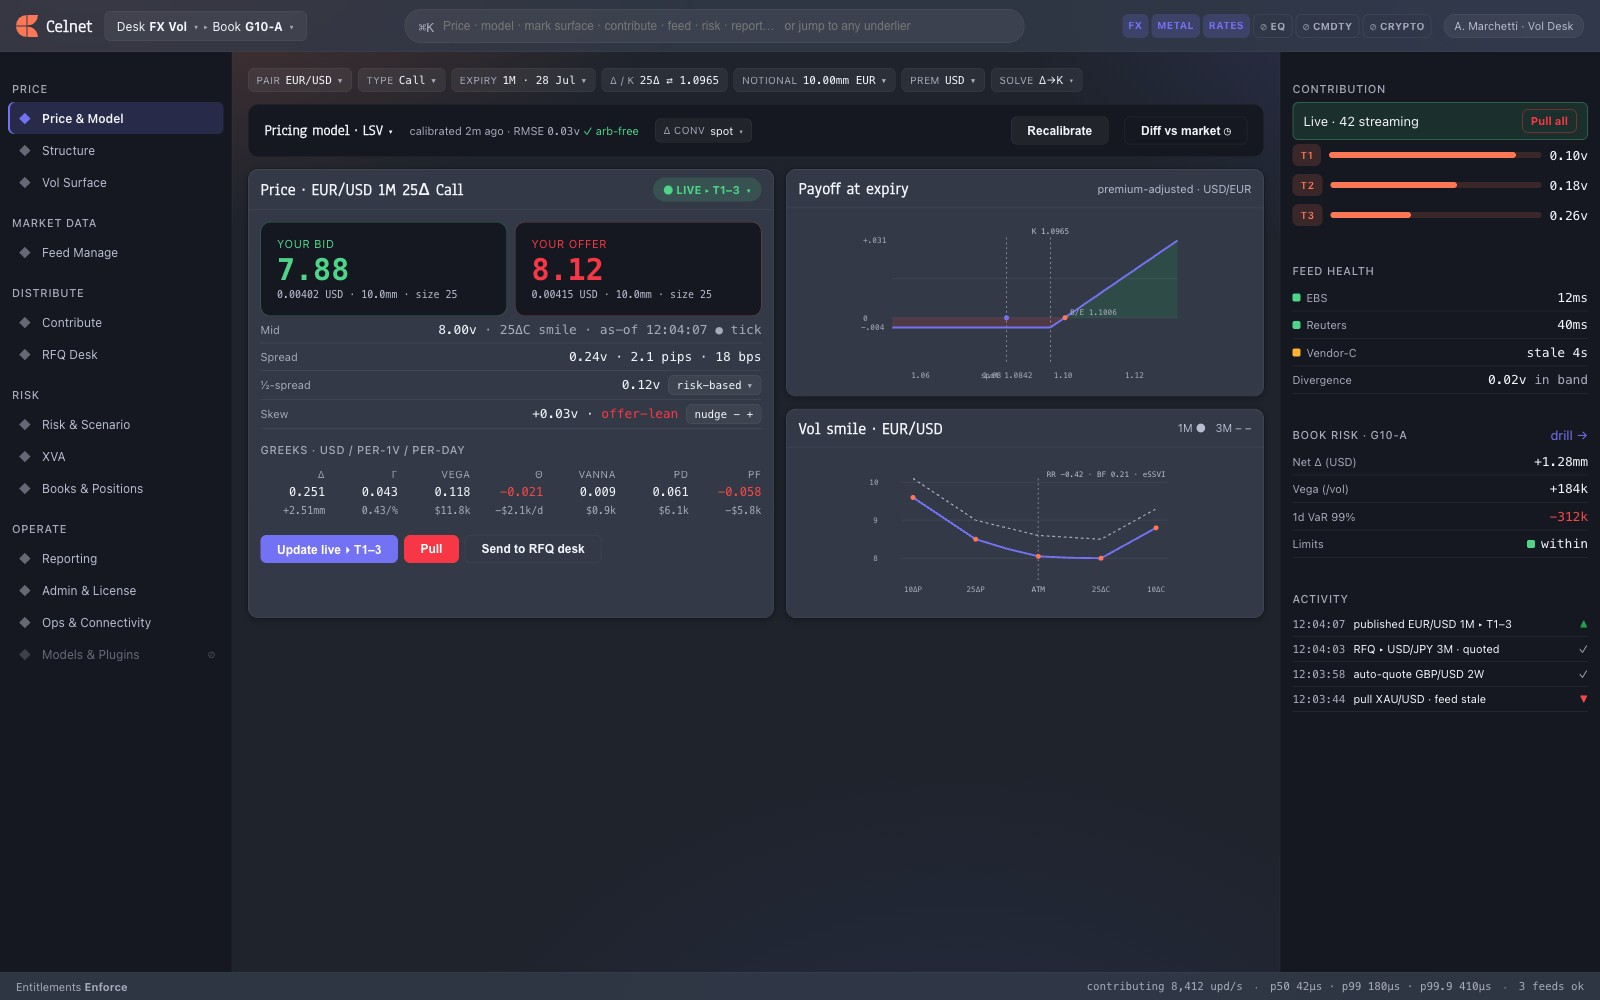
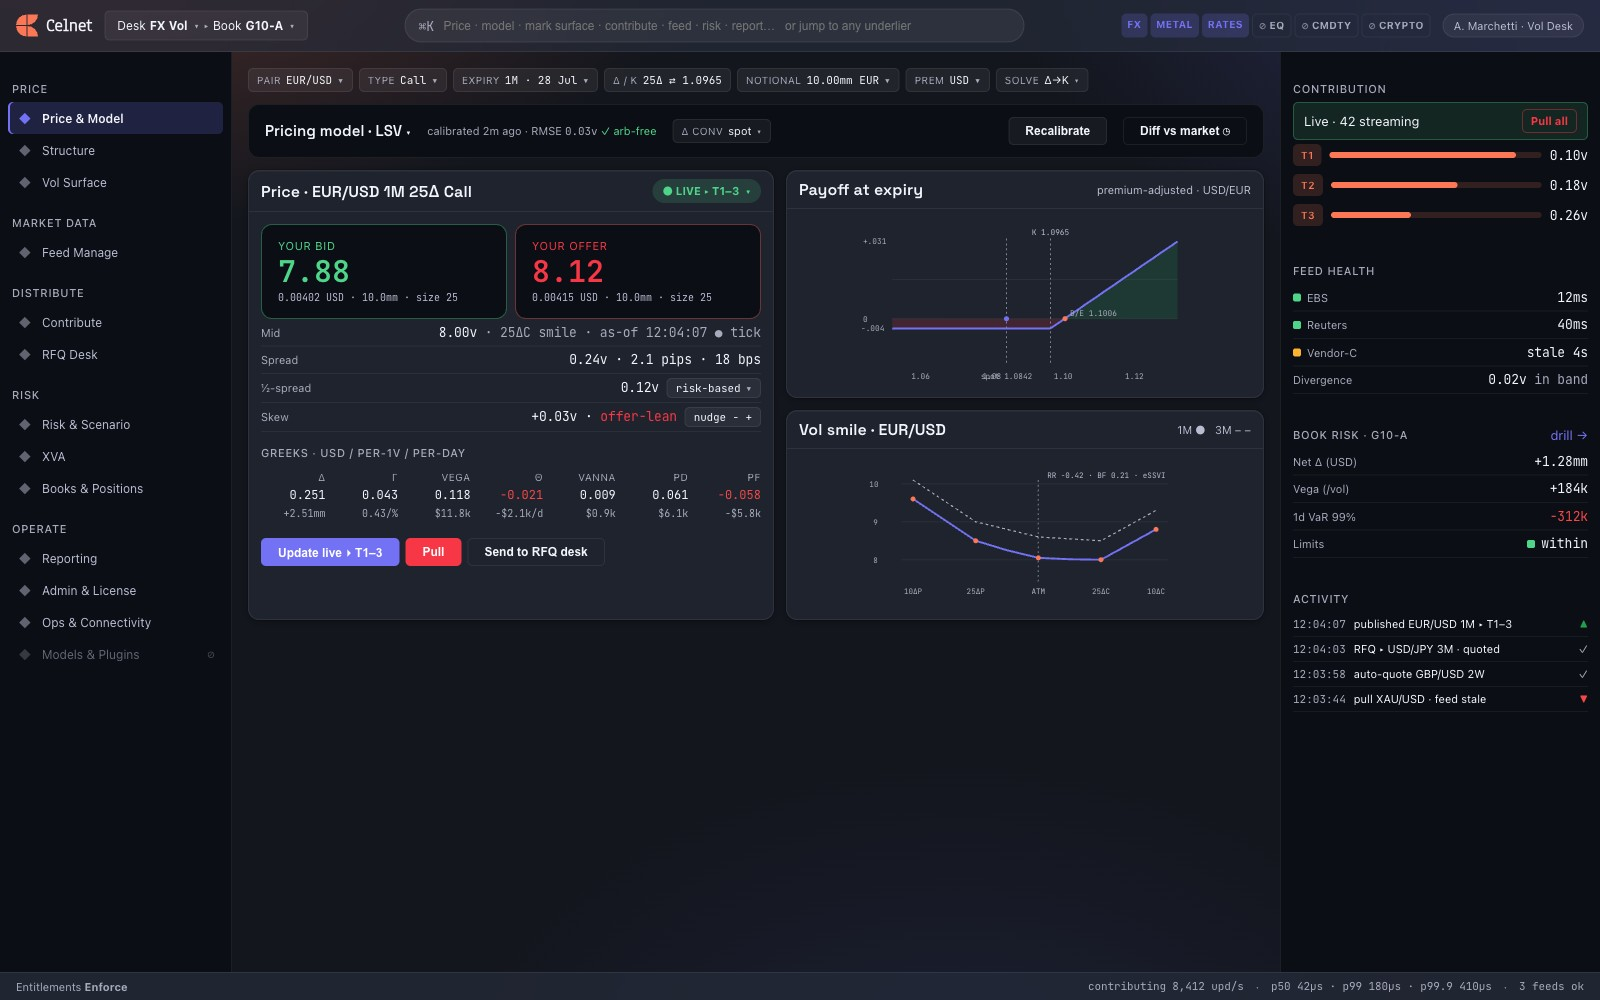
gui-redesign(design): celnet.css re-founded to July-2026 SOTA design system
Applied DESIGN-LANGUAGE spec: tight dark 4-step surface stack (base 0.2, inset 0.165) + 1px hairline elevation (primary depth cue, not shadows); type pairing — Space Grotesk (display/headings) + JetBrains Mono (all numerics), Anaheim kept for wordmark only; two-radius (5/11/14px); SEPARATE colorblind dataviz palette (--seq-* Viridis + --div-* blue↔orange centered-0), heatmap now uses it (not brand hues). Every screen inherits via tokens. Verified render.

diff --git a/docs/gui-redesign/mockups/celer.css b/docs/gui-redesign/mockups/celer.css
@@ -16,27 +16,28 @@
   --type-caption: 11px; --type-caption-lh: 14px;
   --type-micro: 10px;   --type-micro-lh: 12px;
   --font-ui: -apple-system, BlinkMacSystemFont, "Inter", "Segoe UI", system-ui, sans-serif;
+  --font-display: "Space Grotesk", var(--font-ui);
   --font-brand: "Anaheim", var(--font-ui);
-  --font-mono: ui-monospace, "SF Mono", "IBM Plex Mono", "Menlo", "Consolas", monospace;
+  --font-mono: "JetBrains Mono", ui-monospace, "SF Mono", "IBM Plex Mono", "Menlo", monospace;
   --weight-regular: 400; --weight-emphasis: 500; --weight-header: 600;
   --space-1: 2px; --space-2: 4px; --space-3: 8px; --space-4: 12px;
   --space-5: 16px; --space-6: 24px; --space-7: 32px; --space-8: 48px;
   --row-h: 38px; --row-gap: var(--space-1);
   --cell-pad-x: var(--space-4); --cell-pad-y: var(--space-3); --control-h: 28px;
-  --r-sm: 6px; --r-md: 10px; --r-lg: 16px; --r-full: 999px;
+  --r-sm: 5px; --r-md: 11px; --r-lg: 14px; --r-full: 999px;
   --flash-decay: 450ms; --quote-in: 180ms; --workspace-switch: 200ms;
   --ease-out: cubic-bezier(0.22, 1, 0.36, 1);
   --ease-spring: cubic-bezier(0.34, 1.56, 0.64, 1);
   --shadow-panel: 0 2px 8px oklch(0 0 0 / 0.3), 0 0 0 0.5px oklch(0 0 0 / 0.32), inset 0 0.5px 0 oklch(1 0 0 / 0.06);
   --shadow-float: 0 8px 28px oklch(0 0 0 / 0.42), 0 1px 2px oklch(0 0 0 / 0.3);
   --shadow-hud: 0 24px 64px oklch(0 0 0 / 0.55), 0 2px 8px oklch(0 0 0 / 0.4);
-  --hairline: 0.5px solid oklch(1 0 0 / 0.08);
+  --hairline: 1px solid oklch(1 0 0 / 0.07);
   --blur-float: 20px; --blur-hud: 40px;
-  --bg-base: oklch(0.255 0.018 264);
-  --bg-raised: oklch(0.345 0.024 264);
-  --bg-overlay: oklch(0.345 0.026 264 / 0.82);
-  --bg-overlay-solid: oklch(0.345 0.026 264);
-  --bg-inset: oklch(0.21 0.016 264);
+  --bg-base: oklch(0.2 0.015 264);
+  --bg-raised: oklch(0.255 0.02 264);
+  --bg-overlay: oklch(0.29 0.024 264 / 0.7);
+  --bg-overlay-solid: oklch(0.29 0.024 264);
+  --bg-inset: oklch(0.165 0.013 264);
   --text-primary: oklch(0.97 0.008 264);
   --text-secondary: oklch(0.8 0.03 276);
   --text-tertiary: oklch(0.74 0.025 276);
@@ -48,7 +49,12 @@
   --ramp-neg-2: oklch(0.55 0.15 280); --ramp-neg-1: oklch(0.68 0.09 278);
   --ramp-mid: oklch(0.8 0.01 264);
   --ramp-pos-1: oklch(0.74 0.1 145); --ramp-pos-2: oklch(0.62 0.16 150);
-  --grid-line: oklch(1 0 0 / 0.06); --highlight-top: oklch(1 0 0 / 0.06);
+  --grid-line: oklch(1 0 0 / 0.055); --highlight-top: oklch(1 0 0 / 0.06);
+  /* dataviz color contract — NOT brand hues. Viridis sequential + blue↔orange diverging (centered 0) */
+  --seq-1: oklch(0.32 0.10 285); --seq-2: oklch(0.44 0.11 262); --seq-3: oklch(0.55 0.09 210);
+  --seq-4: oklch(0.66 0.11 168); --seq-5: oklch(0.79 0.15 135); --seq-6: oklch(0.90 0.17 108);
+  --div-neg2: oklch(0.58 0.13 248); --div-neg1: oklch(0.70 0.07 240); --div-mid: oklch(0.5 0.006 264);
+  --div-pos1: oklch(0.72 0.11 62); --div-pos2: oklch(0.68 0.16 45);
 }
 :root[data-appearance="light"] {
   color-scheme: light;
@@ -99,8 +105,8 @@ body {
 .brand-face { font-family: var(--font-brand); }
 .label { font-size: var(--type-caption); text-transform: uppercase; letter-spacing: 0.06em; color: var(--text-tertiary); font-weight: var(--weight-emphasis); }
 .display { font-family: var(--font-brand); font-size: var(--type-display); line-height: var(--type-display-lh); font-weight: var(--weight-header); }
-.title { font-family: var(--font-brand); font-size: var(--type-title); line-height: var(--type-title-lh); font-weight: var(--weight-header); }
-.headline { font-family: var(--font-brand); font-size: 17px; line-height: 22px; font-weight: var(--weight-header); letter-spacing: 0.015em; }
+.title { font-family: var(--font-display); font-size: var(--type-title); line-height: var(--type-title-lh); font-weight: 600; letter-spacing: 0.005em; }
+.headline { font-family: var(--font-display); font-size: 16px; line-height: 21px; font-weight: 600; letter-spacing: 0.005em; }
 .muted { color: var(--text-secondary); }
 .dim { color: var(--text-tertiary); }
 .pos { color: var(--ramp-pos-2); } .neg { color: var(--danger); }
@@ -296,8 +302,8 @@ a { color: var(--accent); text-decoration: none; }
 .heat td { text-align: center; font-family: var(--font-mono); font-variant-numeric: tabular-nums; font-size: var(--type-micro); height: 22px; color: var(--text-primary); border: 1px solid var(--bg-inset); }
 .heat td.lab { background: transparent; color: var(--text-secondary); font-weight: 600; text-align: left; padding-left: 2px; }
 /* calm low-chroma diverging surface ramp (cool=low vol → warm=high vol) — shared by every heat/cube/divergence viz */
-.h1{background:oklch(0.44 0.05 255)} .h2{background:oklch(0.45 0.032 232)} .h3{background:oklch(0.465 0.018 205)}
-.h4{background:oklch(0.485 0.035 135)} .h5{background:oklch(0.515 0.05 92)} .h6{background:oklch(0.55 0.066 58)}
+.h1{background:var(--seq-1)} .h2{background:var(--seq-2)} .h3{background:var(--seq-3)}
+.h4{background:var(--seq-4)} .h5{background:var(--seq-5)} .h6{background:var(--seq-6)}
 
 /* activity tape */
 .tape { display: flex; flex-direction: column; }

diff --git a/docs/gui-redesign/mockups/00-shell.html b/docs/gui-redesign/mockups/00-shell.html
@@ -5,7 +5,7 @@
 <meta name="viewport" content="width=device-width, initial-scale=1" />
 <title>Celnet — Price & Model (mockup 00, v4)</title>
 <link rel="preconnect" href="https://fonts.googleapis.com" />
-<link href="https://fonts.googleapis.com/css2?family=Anaheim&display=swap" rel="stylesheet" />
+<link href="https://fonts.googleapis.com/css2?family=Anaheim&family=Space+Grotesk:wght@400;500;600;700&family=JetBrains+Mono:wght@400;500;600&display=swap" rel="stylesheet" />
 <link rel="stylesheet" href="celer.css" />
 </head>
 <body>
